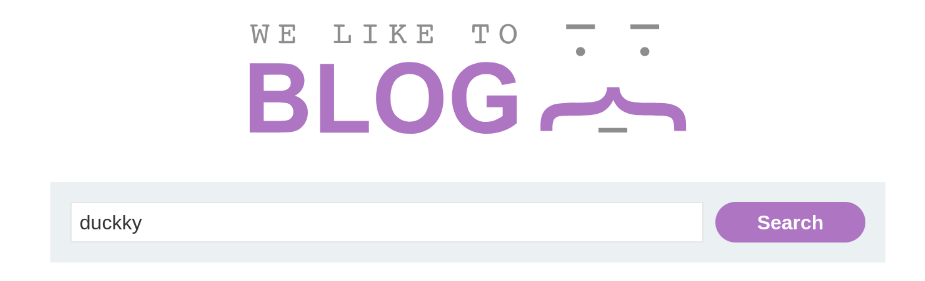
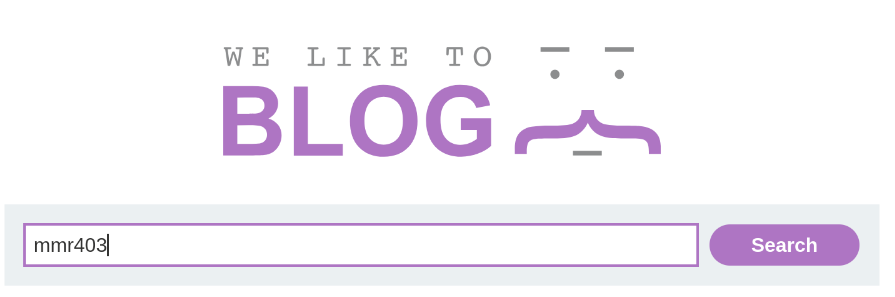
changes images

diff --git a/Cross_site_scripting/Reflected_XSS_into_HTML_context_with_nothing_encoded.md b/Cross_site_scripting/Reflected_XSS_into_HTML_context_with_nothing_encoded.md
@@ -7,13 +7,14 @@
 - craft a payload to call alert() function
 ## How I solved it:
 ![home](pics/vulnElement1.png)
-1. passed the string `duckky` in the search
-2. noticed in the url search parameter `?search=duckky` reflected into the `h1` tag in DOM
+1. passed the string `mmr403` in the search
+2. noticed in the url search parameter `?search=mmr403` reflected into the `h1` tag in DOM
 3. passed the string `<script>alert(1)</script>` and it returned the alert box proving xss vulnerability
 ## Why this works:
 ![dom](pics/dom1.png)
 
 In this lab the website directly copies the search parameter and puts it inside `h1` tag. There is no encoding of the angle braces(`< >`) or forward slash(`/`). for this reason after the response the `h1` tag looks like this `<h1><script>alert(1)</script></h1>` which executes the JavaScript code.
+
 ![proof of concept](pics/poc1.png)
 
 ## Payload:
